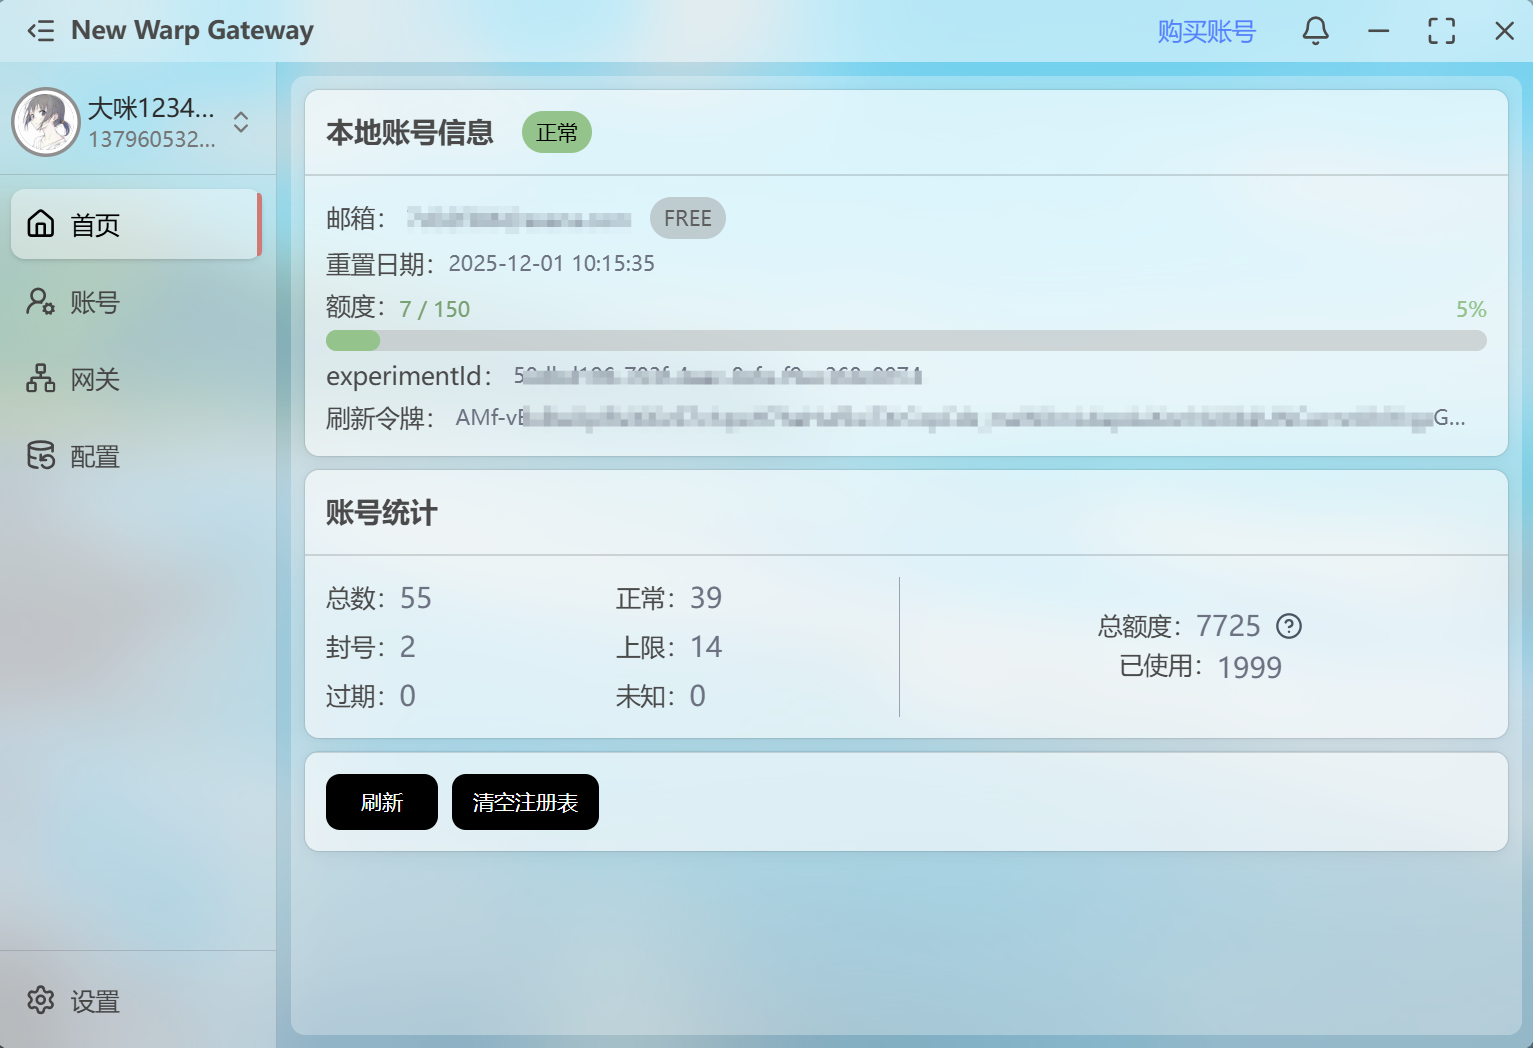
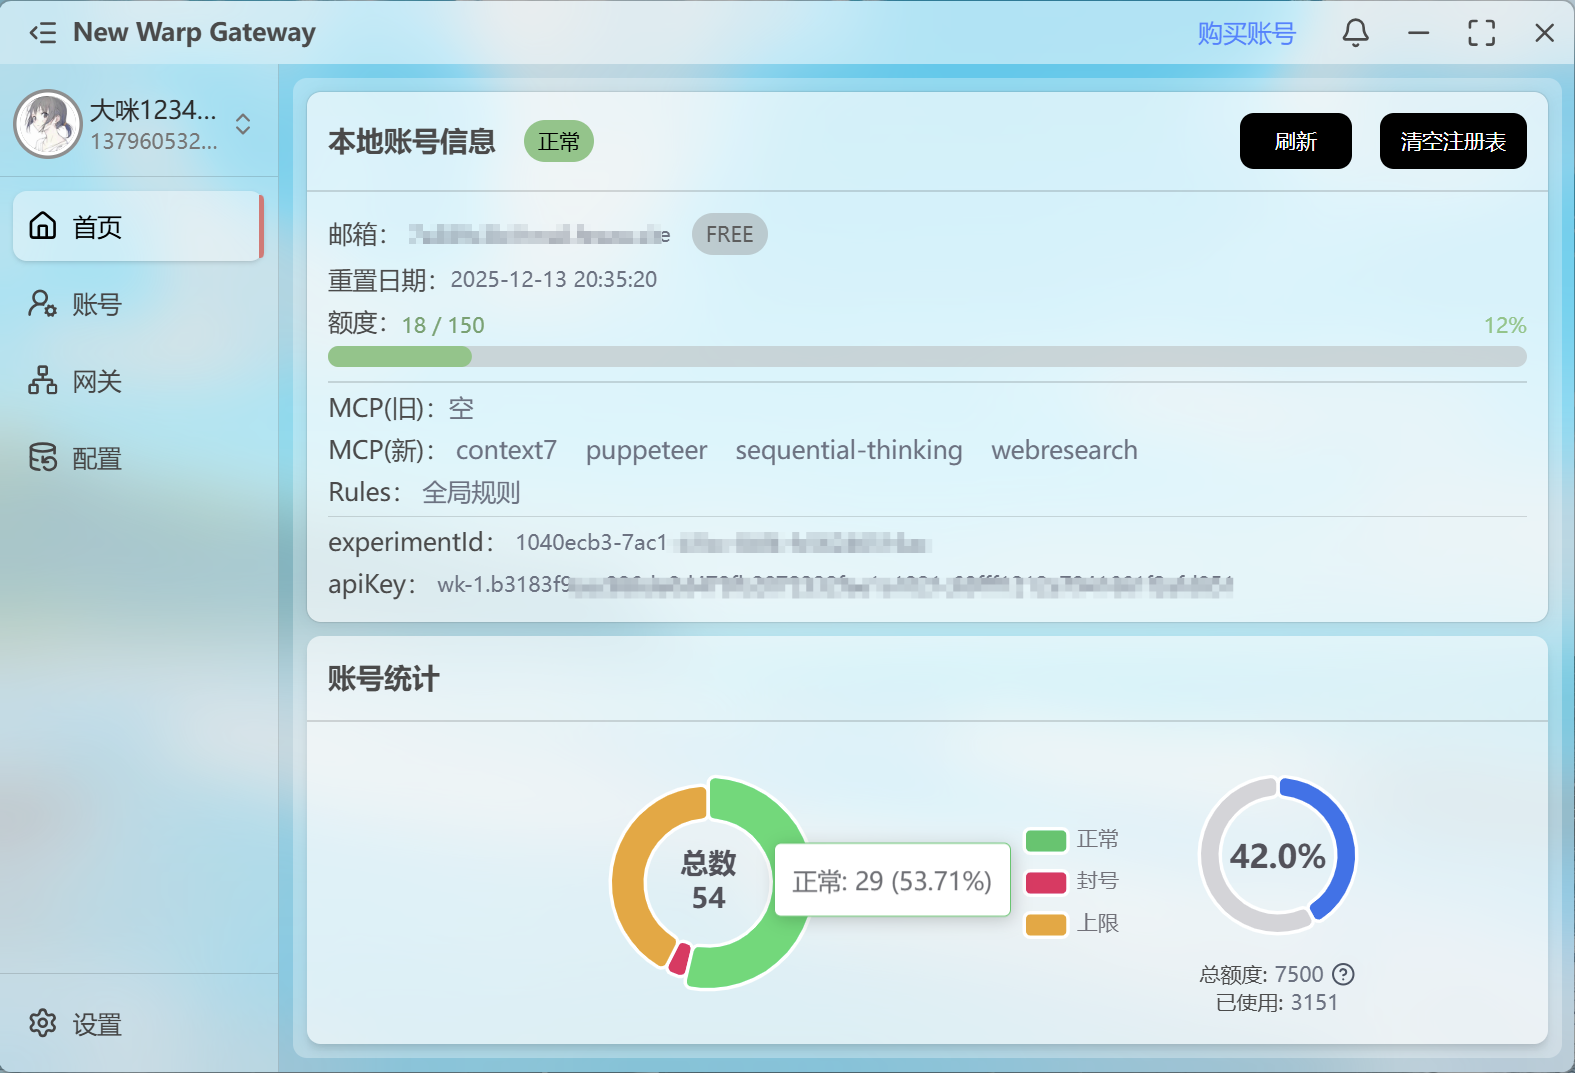
v1.0.1

diff --git a/README.md b/README.md
@@ -7,7 +7,9 @@
 - 批量刷新
 - 封号检测
 - 账号导出
-- 支持 apiKey/refreshToken/json 三种添加方式
+- 支持 链动小铺/apiKey/refreshToken/json 三种添加方式
 - 额度统计
+- MCP/规则展示/增删改查/一键应用
+- 切号自动同步规则
 
-<img src=".\images\w-0.png" style="zoom:50%;" /> <img src=".\images\w-1.png" style="zoom:50%;" /> <img src=".\images\w-2.png" style="zoom:50%;" /> <img src=".\images\w-3.png" style="zoom:50%;" />
+<img src=".\images\w-0.png" style="zoom:50%;" /> <img src=".\images\w-1.png" style="zoom:50%;" /> <img src=".\images\w-2.png" style="zoom:50%;" /> <img src=".\images\w-3.png" style="zoom:50%;" /> <img src=".\images\w-4.png" style="zoom:50%;" />
